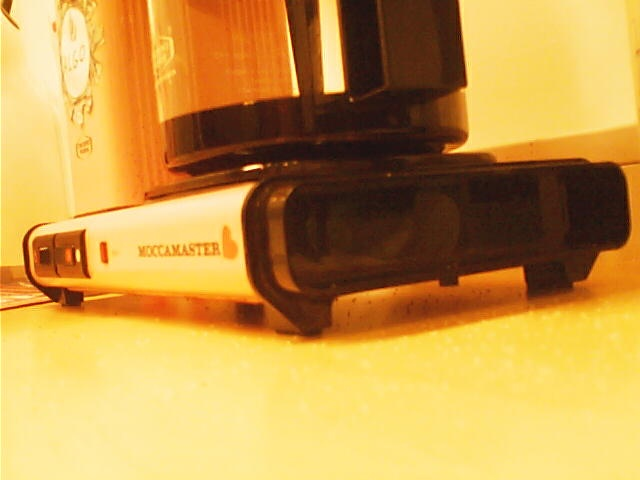
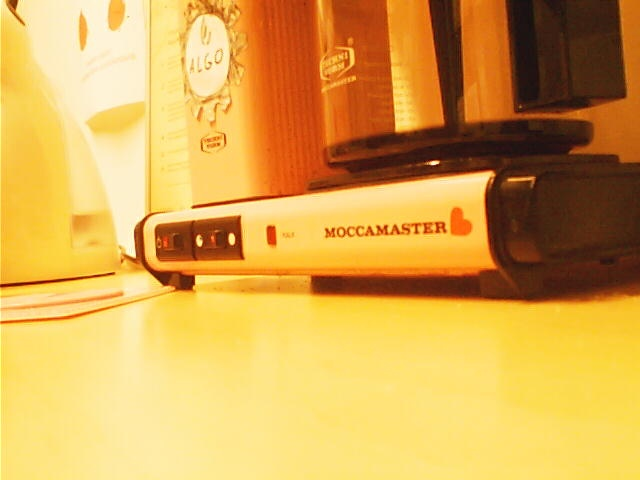
muutettu ulkoiseen palvelimeen

diff --git a/kahvikamera.py b/kahvikamera.py
@@ -8,32 +8,11 @@ from datetime import datetime
 
 app = Flask(__name__)
 
-def git_commit_push():
-    date_str = datetime.now().strftime("%Y-%m-%d %H:%M:%S")
+def scpkuvatoservu():
     try:
-        # Clear out the current Git history
-        subprocess.run(['rm', '-rf', '.git'], check=True)
-
-        # Initialize a new Git repository
-        subprocess.run(['git', 'init'], check=True)
-
-        # Add all files
-        subprocess.run(['git', 'add', '--all'], check=True)
-
-        # Commit with the current date
-        subprocess.run(['git', 'commit', '-m', date_str], check=True)
-
-        # Manually setting the branch name to main
-        subprocess.run(['git', 'branch', '-M', 'main'], check=True)
-
-        # (Re)add your remote - replace with your remote's URL
-        subprocess.run(['git', 'remote', 'add', 'origin', 'git@github.com:teemupaloniemi/kahvikamera.git'], check=True)
-
-        # Force push to overwrite the remote repository
-        subprocess.run(['git', 'push', '-u', '--force', 'origin', 'main'], check=True)
+        subprocess.run(['scp', 'kahvi.jpg','root@172.232.159.94:~/kahvikamera/static/images/'])
     except subprocess.CalledProcessError as e:
-        print(f'An error occurred: {str(e)}')
-
+        print(f'An error occured: {str(e)}')
 
 def mse(img1, img2):
    h, w = img1.shape
@@ -88,7 +67,7 @@ def query_model():
             cv2.drawContours(imgtmp, [contour], -1, (180), thickness=cv2.FILLED)
 
     cv2.imshow("canny", imgtmp)
-    cv2.waitKey(10)
+    cv2.waitKey(2)
     
     error = mse(img1, img2)
 
@@ -96,8 +75,7 @@ def query_model():
     if (error > 5): # Where does this 5 come from?
         print("MSE yli 5, Kahvin tila muuttunut! Laitetaan uusi kuva.")
         cv2.imwrite('kahvi.jpg', frame)
-
-        git_commit_push()  # Call the git function after saving image
+        scpkuvatoservu()
     else: 
         print("Kahvin tila ei muuttunut. ei tehdä mitään.")
     # Return image data in response with appropriate MIME type
@@ -108,7 +86,7 @@ def run_every_minute():
         # Calling Flask route function directly is unusual and may not work in some setups.
         # Depending on the context, a different approach may be necessary.
         query_model()  
-        time.sleep(30)  # wait one minute
+        time.sleep(5)  # wait one minute
 
 if __name__ == '__main__':
 #     app.run(debug=True, port=8000)
